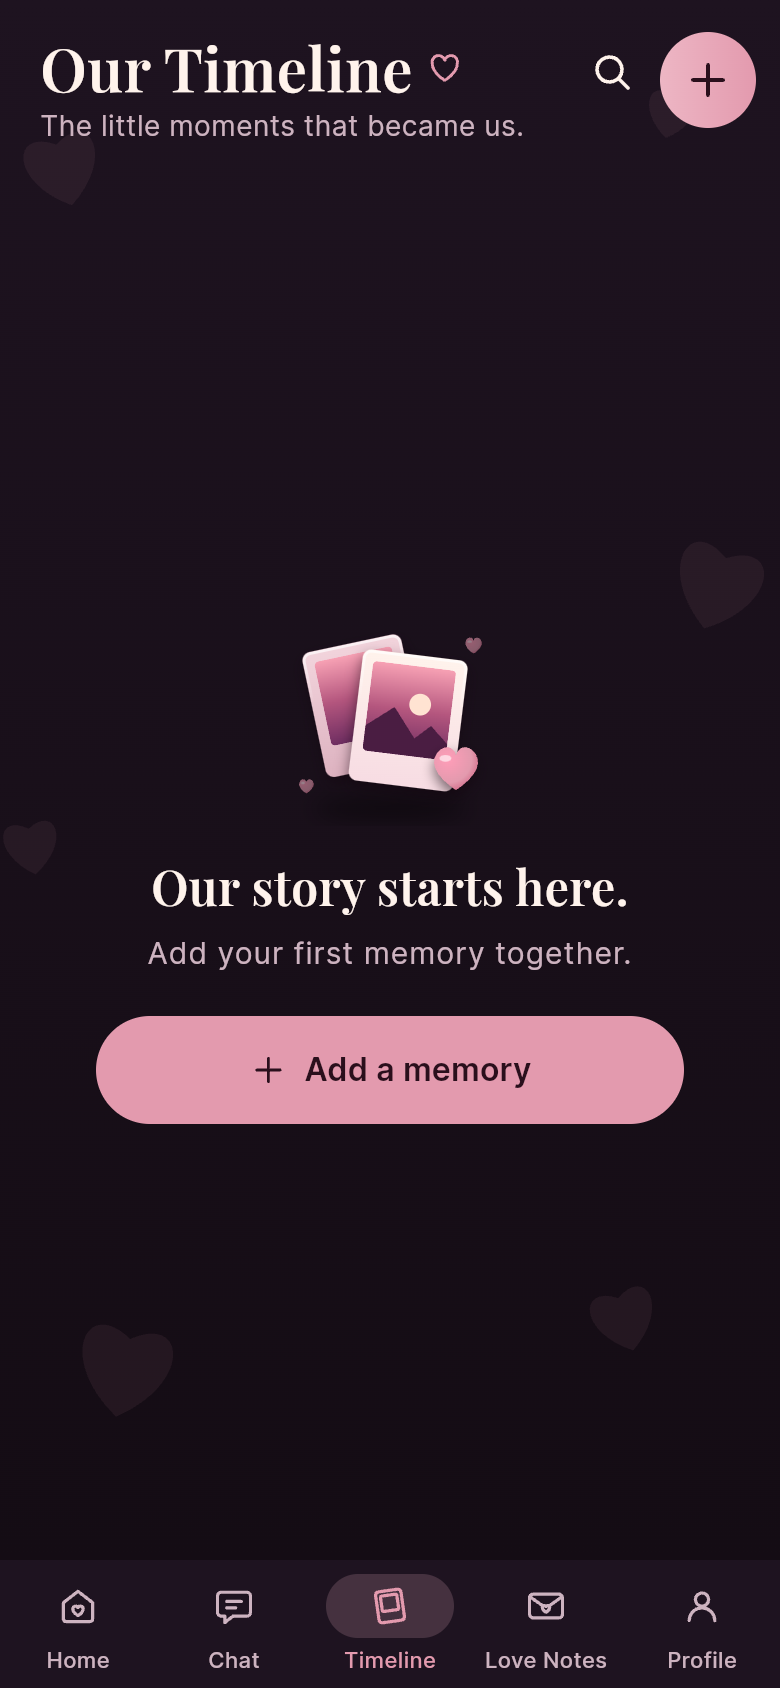
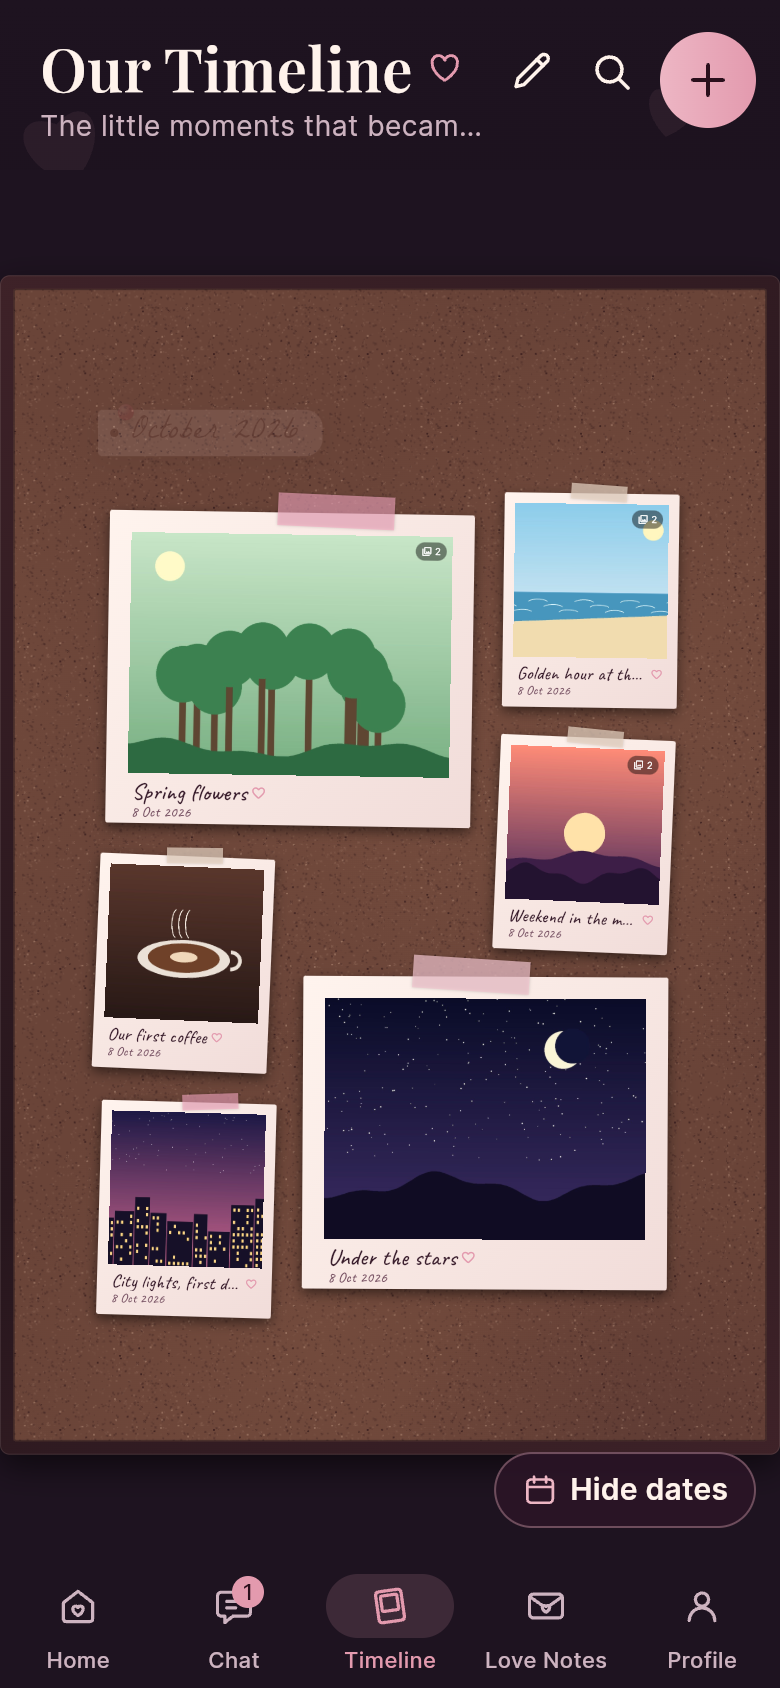
docs: demo screenshots with sample couple data, demo video plan, Week 3 documentation gallery

diff --git a/README.md b/README.md
@@ -160,25 +160,35 @@ docs/                       Proposal, mockup, design system, weekly reports, jou
 
 ## 6. Screenshots
 
-Taken on 8 October 2026 from the live demo, signed in with the two [tester accounts](#tester-accounts). All data is invented.
+Taken on 8 October 2026 from the live demo, signed in with the two [tester accounts](#tester-accounts). The test couple has sample data: six memories on the Timeline (with three frame styles and a sticky note), a love note, a sealed Time Capsule, shared moods, chat messages, a finished Therabot reflection and a Bucket List goal. All of it is invented, and the pictures were drawn for this project.
 
 | Sign in | Pair | Home |
 |---|---|---|
-| <img src="docs/screenshots/10-sign-in.png" width="250" alt="Sign in"> | <img src="docs/screenshots/11-pair.png" width="250" alt="Pair with your partner"> | <img src="docs/screenshots/12-home.png" width="250" alt="Home with the shared mood card"> |
+| <img src="docs/screenshots/10-sign-in.png" width="250" alt="Sign in"> | <img src="docs/screenshots/11-pair.png" width="250" alt="Pair with your partner"> | <img src="docs/screenshots/12-home.png" width="250" alt="Home"> |
 
-| Home, For us | Chat | Timeline |
+| Different moods | Same mood, merged | Home, For us |
 |---|---|---|
-| <img src="docs/screenshots/13-home-for-us.png" width="250" alt="Home quick actions and Therabot"> | <img src="docs/screenshots/14-chat.png" width="250" alt="Private chat"> | <img src="docs/screenshots/15-timeline.png" width="250" alt="Timeline"> |
+| <img src="docs/screenshots/21-moods-different.png" width="250" alt="Two different moods shown separately"> | <img src="docs/screenshots/22-moods-merged.png" width="250" alt="Matching moods merged into Loved together"> | <img src="docs/screenshots/13-home-for-us.png" width="250" alt="Home quick actions"> |
 
-| Love Notes | Time Capsules | Therabot |
+| Chat | Timeline | Timeline, customized |
 |---|---|---|
-| <img src="docs/screenshots/16-love-notes.png" width="250" alt="Love Notes"> | <img src="docs/screenshots/17-time-capsules.png" width="250" alt="Time Capsules"> | <img src="docs/screenshots/18-therabot.png" width="250" alt="Therabot"> |
+| <img src="docs/screenshots/14-chat.png" width="250" alt="Private chat between the two partners"> | <img src="docs/screenshots/15-timeline.png" width="250" alt="Scrapbook timeline with six memories"> | <img src="docs/screenshots/23-timeline-customized.png" width="250" alt="Timeline with film, postcard and taped frames and a sticky note"> |
 
-| Bucket List | Profile |
-|---|---|
-| <img src="docs/screenshots/19-bucket-list.png" width="250" alt="Bucket List"> | <img src="docs/screenshots/20-profile.png" width="250" alt="Profile"> |
+| Love Notes | Time capsule preview | Capsule sealed |
+|---|---|---|
+| <img src="docs/screenshots/16-love-notes.png" width="250" alt="A love note with a photo"> | <img src="docs/screenshots/24-capsule-preview.png" width="250" alt="Time capsule preview with a photo and a parchment letter"> | <img src="docs/screenshots/25-capsule-sealed.png" width="250" alt="Sealed capsule with a wax seal"> |
 
-The test couple has no memories or notes yet, so Timeline, Love Notes, Time Capsules and Bucket List show their empty states. The Timeline corkboard and Time Capsule ceremony fill up as you add content; try them in the live demo.
+| Time Capsules list | Therabot | Therabot privacy |
+|---|---|---|
+| <img src="docs/screenshots/17-time-capsules.png" width="250" alt="Time capsules list showing one sealed capsule"> | <img src="docs/screenshots/18-therabot.png" width="250" alt="Therabot hub"> | <img src="docs/screenshots/26-therabot-privacy.png" width="250" alt="Therabot privacy notice"> |
+
+| Therabot, private chat | Therabot, both finished | Shared reflection |
+|---|---|---|
+| <img src="docs/screenshots/27-therabot-chat.png" width="250" alt="Private Therabot conversation"> | <img src="docs/screenshots/28-therabot-session.png" width="250" alt="Reflection session status"> | <img src="docs/screenshots/29-therabot-shared.png" width="250" alt="Shared reflection made from short summaries"> |
+
+| Bucket List | Savings log | Profile |
+|---|---|---|
+| <img src="docs/screenshots/19-bucket-list.png" width="250" alt="Bucket list"> | <img src="docs/screenshots/30-bucket-savings.png" width="250" alt="Bucket item with a savings log"> | <img src="docs/screenshots/20-profile.png" width="250" alt="Profile"> |
 
 ## 7. Known issues and next steps
 
@@ -193,9 +203,9 @@ The test couple has no memories or notes yet, so Timeline, Love Notes, Time Caps
 ### Next steps
 
 1. Finish the security fixes from the audit.
-2. Add sample memories and notes so the empty-state screens have content.
+2. Record the demo video (see [the demo plan](docs/05-demo-video.md)).
 3. Password reset.
-4. Record the demo video and finish the final documents.
+4. Finish the final documents.
 
 ---
 

diff --git a/docs/DOCUMENTATION/03-documentation-week-3.md b/docs/DOCUMENTATION/03-documentation-week-3.md
@@ -160,25 +160,35 @@ docs/                       Proposal, mockup, design system, weekly reports, jou
 
 ## 6. Screenshots
 
-Taken on 8 October 2026 from the live demo, signed in with the two [tester accounts](#tester-accounts). All data is invented.
+Taken on 8 October 2026 from the live demo, signed in with the two [tester accounts](#tester-accounts). The test couple has sample data: six memories on the Timeline (with three frame styles and a sticky note), a love note, a sealed Time Capsule, shared moods, chat messages, a finished Therabot reflection and a Bucket List goal. All of it is invented, and the pictures were drawn for this project.
 
 | Sign in | Pair | Home |
 |---|---|---|
-| <img src="../screenshots/10-sign-in.png" width="250" alt="Sign in"> | <img src="../screenshots/11-pair.png" width="250" alt="Pair with your partner"> | <img src="../screenshots/12-home.png" width="250" alt="Home with the shared mood card"> |
+| <img src="../screenshots/10-sign-in.png" width="250" alt="Sign in"> | <img src="../screenshots/11-pair.png" width="250" alt="Pair with your partner"> | <img src="../screenshots/12-home.png" width="250" alt="Home"> |
 
-| Home, For us | Chat | Timeline |
+| Different moods | Same mood, merged | Home, For us |
 |---|---|---|
-| <img src="../screenshots/13-home-for-us.png" width="250" alt="Home quick actions and Therabot"> | <img src="../screenshots/14-chat.png" width="250" alt="Private chat"> | <img src="../screenshots/15-timeline.png" width="250" alt="Timeline"> |
+| <img src="../screenshots/21-moods-different.png" width="250" alt="Two different moods shown separately"> | <img src="../screenshots/22-moods-merged.png" width="250" alt="Matching moods merged into Loved together"> | <img src="../screenshots/13-home-for-us.png" width="250" alt="Home quick actions"> |
 
-| Love Notes | Time Capsules | Therabot |
+| Chat | Timeline | Timeline, customized |
 |---|---|---|
-| <img src="../screenshots/16-love-notes.png" width="250" alt="Love Notes"> | <img src="../screenshots/17-time-capsules.png" width="250" alt="Time Capsules"> | <img src="../screenshots/18-therabot.png" width="250" alt="Therabot"> |
+| <img src="../screenshots/14-chat.png" width="250" alt="Private chat between the two partners"> | <img src="../screenshots/15-timeline.png" width="250" alt="Scrapbook timeline with six memories"> | <img src="../screenshots/23-timeline-customized.png" width="250" alt="Timeline with film, postcard and taped frames and a sticky note"> |
 
-| Bucket List | Profile |
-|---|---|
-| <img src="../screenshots/19-bucket-list.png" width="250" alt="Bucket List"> | <img src="../screenshots/20-profile.png" width="250" alt="Profile"> |
+| Love Notes | Time capsule preview | Capsule sealed |
+|---|---|---|
+| <img src="../screenshots/16-love-notes.png" width="250" alt="A love note with a photo"> | <img src="../screenshots/24-capsule-preview.png" width="250" alt="Time capsule preview with a photo and a parchment letter"> | <img src="../screenshots/25-capsule-sealed.png" width="250" alt="Sealed capsule with a wax seal"> |
 
-The test couple has no memories or notes yet, so Timeline, Love Notes, Time Capsules and Bucket List show their empty states. The Timeline corkboard and Time Capsule ceremony fill up as you add content; try them in the live demo.
+| Time Capsules list | Therabot | Therabot privacy |
+|---|---|---|
+| <img src="../screenshots/17-time-capsules.png" width="250" alt="Time capsules list showing one sealed capsule"> | <img src="../screenshots/18-therabot.png" width="250" alt="Therabot hub"> | <img src="../screenshots/26-therabot-privacy.png" width="250" alt="Therabot privacy notice"> |
+
+| Therabot, private chat | Therabot, both finished | Shared reflection |
+|---|---|---|
+| <img src="../screenshots/27-therabot-chat.png" width="250" alt="Private Therabot conversation"> | <img src="../screenshots/28-therabot-session.png" width="250" alt="Reflection session status"> | <img src="../screenshots/29-therabot-shared.png" width="250" alt="Shared reflection made from short summaries"> |
+
+| Bucket List | Savings log | Profile |
+|---|---|---|
+| <img src="../screenshots/19-bucket-list.png" width="250" alt="Bucket list"> | <img src="../screenshots/30-bucket-savings.png" width="250" alt="Bucket item with a savings log"> | <img src="../screenshots/20-profile.png" width="250" alt="Profile"> |
 
 ## 7. Known issues and next steps
 
@@ -193,9 +203,9 @@ The test couple has no memories or notes yet, so Timeline, Love Notes, Time Caps
 ### Next steps
 
 1. Finish the security fixes from the audit.
-2. Add sample memories and notes so the empty-state screens have content.
+2. Record the demo video.
 3. Password reset.
-4. Record the demo video and finish the final documents.
+4. Finish the final documents.
 
 ---
 

diff --git a/docs/DOCUMENTATION.md b/docs/DOCUMENTATION.md
@@ -160,25 +160,35 @@ docs/                       Proposal, mockup, design system, weekly reports, jou
 
 ## 6. Screenshots
 
-Taken on 8 October 2026 from the live demo, signed in with the two [tester accounts](#tester-accounts). All data is invented.
+Taken on 8 October 2026 from the live demo, signed in with the two [tester accounts](#tester-accounts). The test couple has sample data: six memories on the Timeline (with three frame styles and a sticky note), a love note, a sealed Time Capsule, shared moods, chat messages, a finished Therabot reflection and a Bucket List goal. All of it is invented, and the pictures were drawn for this project.
 
 | Sign in | Pair | Home |
 |---|---|---|
-| <img src="screenshots/10-sign-in.png" width="250" alt="Sign in"> | <img src="screenshots/11-pair.png" width="250" alt="Pair with your partner"> | <img src="screenshots/12-home.png" width="250" alt="Home with the shared mood card"> |
+| <img src="screenshots/10-sign-in.png" width="250" alt="Sign in"> | <img src="screenshots/11-pair.png" width="250" alt="Pair with your partner"> | <img src="screenshots/12-home.png" width="250" alt="Home"> |
 
-| Home, For us | Chat | Timeline |
+| Different moods | Same mood, merged | Home, For us |
 |---|---|---|
-| <img src="screenshots/13-home-for-us.png" width="250" alt="Home quick actions and Therabot"> | <img src="screenshots/14-chat.png" width="250" alt="Private chat"> | <img src="screenshots/15-timeline.png" width="250" alt="Timeline"> |
+| <img src="screenshots/21-moods-different.png" width="250" alt="Two different moods shown separately"> | <img src="screenshots/22-moods-merged.png" width="250" alt="Matching moods merged into Loved together"> | <img src="screenshots/13-home-for-us.png" width="250" alt="Home quick actions"> |
 
-| Love Notes | Time Capsules | Therabot |
+| Chat | Timeline | Timeline, customized |
 |---|---|---|
-| <img src="screenshots/16-love-notes.png" width="250" alt="Love Notes"> | <img src="screenshots/17-time-capsules.png" width="250" alt="Time Capsules"> | <img src="screenshots/18-therabot.png" width="250" alt="Therabot"> |
+| <img src="screenshots/14-chat.png" width="250" alt="Private chat between the two partners"> | <img src="screenshots/15-timeline.png" width="250" alt="Scrapbook timeline with six memories"> | <img src="screenshots/23-timeline-customized.png" width="250" alt="Timeline with film, postcard and taped frames and a sticky note"> |
 
-| Bucket List | Profile |
-|---|---|
-| <img src="screenshots/19-bucket-list.png" width="250" alt="Bucket List"> | <img src="screenshots/20-profile.png" width="250" alt="Profile"> |
+| Love Notes | Time capsule preview | Capsule sealed |
+|---|---|---|
+| <img src="screenshots/16-love-notes.png" width="250" alt="A love note with a photo"> | <img src="screenshots/24-capsule-preview.png" width="250" alt="Time capsule preview with a photo and a parchment letter"> | <img src="screenshots/25-capsule-sealed.png" width="250" alt="Sealed capsule with a wax seal"> |
 
-The test couple has no memories or notes yet, so Timeline, Love Notes, Time Capsules and Bucket List show their empty states. The Timeline corkboard and Time Capsule ceremony fill up as you add content; try them in the live demo.
+| Time Capsules list | Therabot | Therabot privacy |
+|---|---|---|
+| <img src="screenshots/17-time-capsules.png" width="250" alt="Time capsules list showing one sealed capsule"> | <img src="screenshots/18-therabot.png" width="250" alt="Therabot hub"> | <img src="screenshots/26-therabot-privacy.png" width="250" alt="Therabot privacy notice"> |
+
+| Therabot, private chat | Therabot, both finished | Shared reflection |
+|---|---|---|
+| <img src="screenshots/27-therabot-chat.png" width="250" alt="Private Therabot conversation"> | <img src="screenshots/28-therabot-session.png" width="250" alt="Reflection session status"> | <img src="screenshots/29-therabot-shared.png" width="250" alt="Shared reflection made from short summaries"> |
+
+| Bucket List | Savings log | Profile |
+|---|---|---|
+| <img src="screenshots/19-bucket-list.png" width="250" alt="Bucket list"> | <img src="screenshots/30-bucket-savings.png" width="250" alt="Bucket item with a savings log"> | <img src="screenshots/20-profile.png" width="250" alt="Profile"> |
 
 ## 7. Known issues and next steps
 
@@ -193,9 +203,9 @@ The test couple has no memories or notes yet, so Timeline, Love Notes, Time Caps
 ### Next steps
 
 1. Finish the security fixes from the audit.
-2. Add sample memories and notes so the empty-state screens have content.
+2. Record the demo video.
 3. Password reset.
-4. Record the demo video and finish the final documents.
+4. Finish the final documents.
 
 ---
 

diff --git a/docs/05-demo-video.md b/docs/05-demo-video.md
@@ -1,24 +1,49 @@
 # Demo video
 
-**File:** `demo.mp4` in this folder, or the hosted link (see below)
+**Live app:** https://h1enz.github.io/USpace/
+**Video:** *to be added: file `demo.mp4` in this folder, or a hosted link*
 **Length:** aim for 3 to 5 minutes
-**Recorded on:** the device you used
+**Recorded on:** a desktop browser, with the app in its 390 x 844 phone frame
+
+## The demo couple
+
+The video uses the two tester accounts from the [README](../README.md#tester-accounts), already paired as one couple on the live app. They hold invented data only: made-up names, pictures drawn for this project (sunsets, a beach, a city skyline, flowers) and sample text. No real people, faces or messages appear.
+
+What is already in the demo couple (added on 8 October 2026):
+
+- **Timeline:** six memories with one or two photos each, a place and a tag, customized with Film, Postcard and Taped frames and a yellow sticky note ("Best year so far").
+- **Moods:** both partners have picked Loved today, so Home shows the merged "Loved together" state. Pick a different mood on one side to show the separate state.
+- **Chat:** a short two-sided conversation about a cozy night on Wednesday.
+- **Love Notes:** one note in the "Missing You" category with a flower photo.
+- **Time Capsule:** one sealed capsule from Tester A to Tester B, opening on 8 October 2027, so it will not open during the recording. Write a new one to show the full flow.
+- **Therabot:** one finished Couple Reflection, with each side answered privately and a shared reflection built only from short summaries.
+- **Bucket List:** one goal, "See the cherry blossoms together" in Kyoto, with a budget of 60,000 pesos and 15,000 logged as savings.
+
+Open two browsers (or one normal and one private window), one signed in as each tester, so both sides of a feature can be shown.
 
 ## What it shows
 
-A short list, in order, so a viewer can skip to what they need:
+A suggested running order, so a viewer can skip to what they need. Timings are a plan, to be checked against the final recording.
 
-- 0:00 what the app is and who it is for
-- 0:20 ...
-- 1:10 ...
+| Time | Screen | What to do and say |
+|---|---|---|
+| 0:00 | Intro | What USpace is and who it is for: a private space for two people, including long-distance couples. |
+| 0:20 | Sign in and pair | Sign in as Tester A. Show the pairing screen and the invite code that joins two accounts into one couple. |
+| 0:50 | Home and moods | Pick a mood as Tester A. Switch to Tester B and pick a different one: they show separately. Pick the same mood: they merge into one shared state. Add a note. |
+| 1:30 | Chat | Send a message and a reaction in one browser; it appears in the other without refreshing. |
+| 2:00 | Timeline | The scrapbook corkboard: Polaroids, tape, up to 10 photos per memory. Tap the pencil to edit the board and move memories around. Add a memory with photos, a story, a place and a tag. |
+| 2:50 | Love Notes | Write a note in a category and read it as a paper letter from the other account. |
+| 3:20 | Time Capsules | Write and seal a capsule with a photo and an unlock date. Show that it stays hidden from both partners until then. |
+| 3:50 | Therabot | Show Private Talk (nothing goes to the partner) and Reflect together. Answer a question as each tester. |
+| 4:20 | Bucket List | The feature I wrote myself: add a goal with a place and a budget, log savings, tick it done. |
+| 4:45 | Close | The privacy rules: only the two partners see anything, enforced in the database. |
 
-Cover, in this order: the main user journey end to end, anything that only works
-on a real device (camera, GPS, sensors), and the thing you are proudest of.
+Cover, in this order: the main user journey end to end, anything that only works in the live app (two people, two browsers), and the thing I am proudest of.
 
 ## Getting it into the repo
 
 GitHub **blocks any file over 100 MB** and warns over 50 MB, so compress before
-you commit:
+committing:
 
 ```bash
 ffmpeg -i raw.mp4 -vcodec libx264 -crf 28 -preset slow \
@@ -34,5 +59,6 @@ it.
 
 - Real data off the screen: no classmates' names, numbers, faces or messages.
 - Notifications off.
-- Sensible sample data, not "asdf".
+- Use the tester accounts and the sample data above, not "asdf".
 - One unbroken take per feature. Say what you are doing while you do it.
+- Clear the browser cache (Ctrl + Shift + R) so the latest version of the live app loads.

diff --git a/docs/REFLECTION.md b/docs/REFLECTION.md
@@ -35,7 +35,7 @@ The Bucket List is the feature I coded by hand. I chose it because I wanted to u
 - Every serious defect found in this project was a place where a rule lived in the interface instead of the database: a sealed capsule whose photo could still change, and realtime channels anyone could join. The fixes moved the rule to the server. That is a good instinct to keep.
 - The Bucket List is the clearest evidence of understanding in the repository, because its bugs were found, explained and fixed by the author. A useful next step is to trace one other feature, for example how a chat message goes from the text field to the partner's screen through `couple_sync.dart`, and explain it in the same way.
 - Several commits are named "Create DOCUMENTATION" and "Delete docs/DOCUMENTATION" in a row, which shows documentation was done through the GitHub website under pressure. Keeping docs in the same commits as the features they describe would make the history easier to trust.
-- Remaining work that matters most: apply the audit's medium-severity fixes to production in stages, add sample content to the test couple, and record the demo.
+- Remaining work that matters most: apply the audit's medium-severity fixes to production in stages, and record the demo.
 
 ## What I would do differently
 

diff --git a/docs/04-weekly-reports.md b/docs/04-weekly-reports.md
@@ -104,7 +104,6 @@
 
 **In progress**
 - Applying the security fixes to the live project, DEV first.
-- Adding sample content for the screenshots.
 - Demo video.
 
 **Blocked or stuck on**
@@ -125,7 +124,6 @@
 
 **Next week I will:**
 - Finish the security fixes and apply them to the live project.
-- Add sample memories and notes so the empty-state screens have content.
 - Record the demo video.
 - Make sure I can explain every part of the project.
 

diff --git a/docs/REPORT.md b/docs/REPORT.md
@@ -78,7 +78,6 @@ The features were all there, so the risk had moved from "missing" to "not trustw
 ### What is left
 
 - Apply the audit fixes to the live project in stages.
-- Add sample content to the test couple.
 - Record the demo video and finish the slides.
 - Password reset.
 
